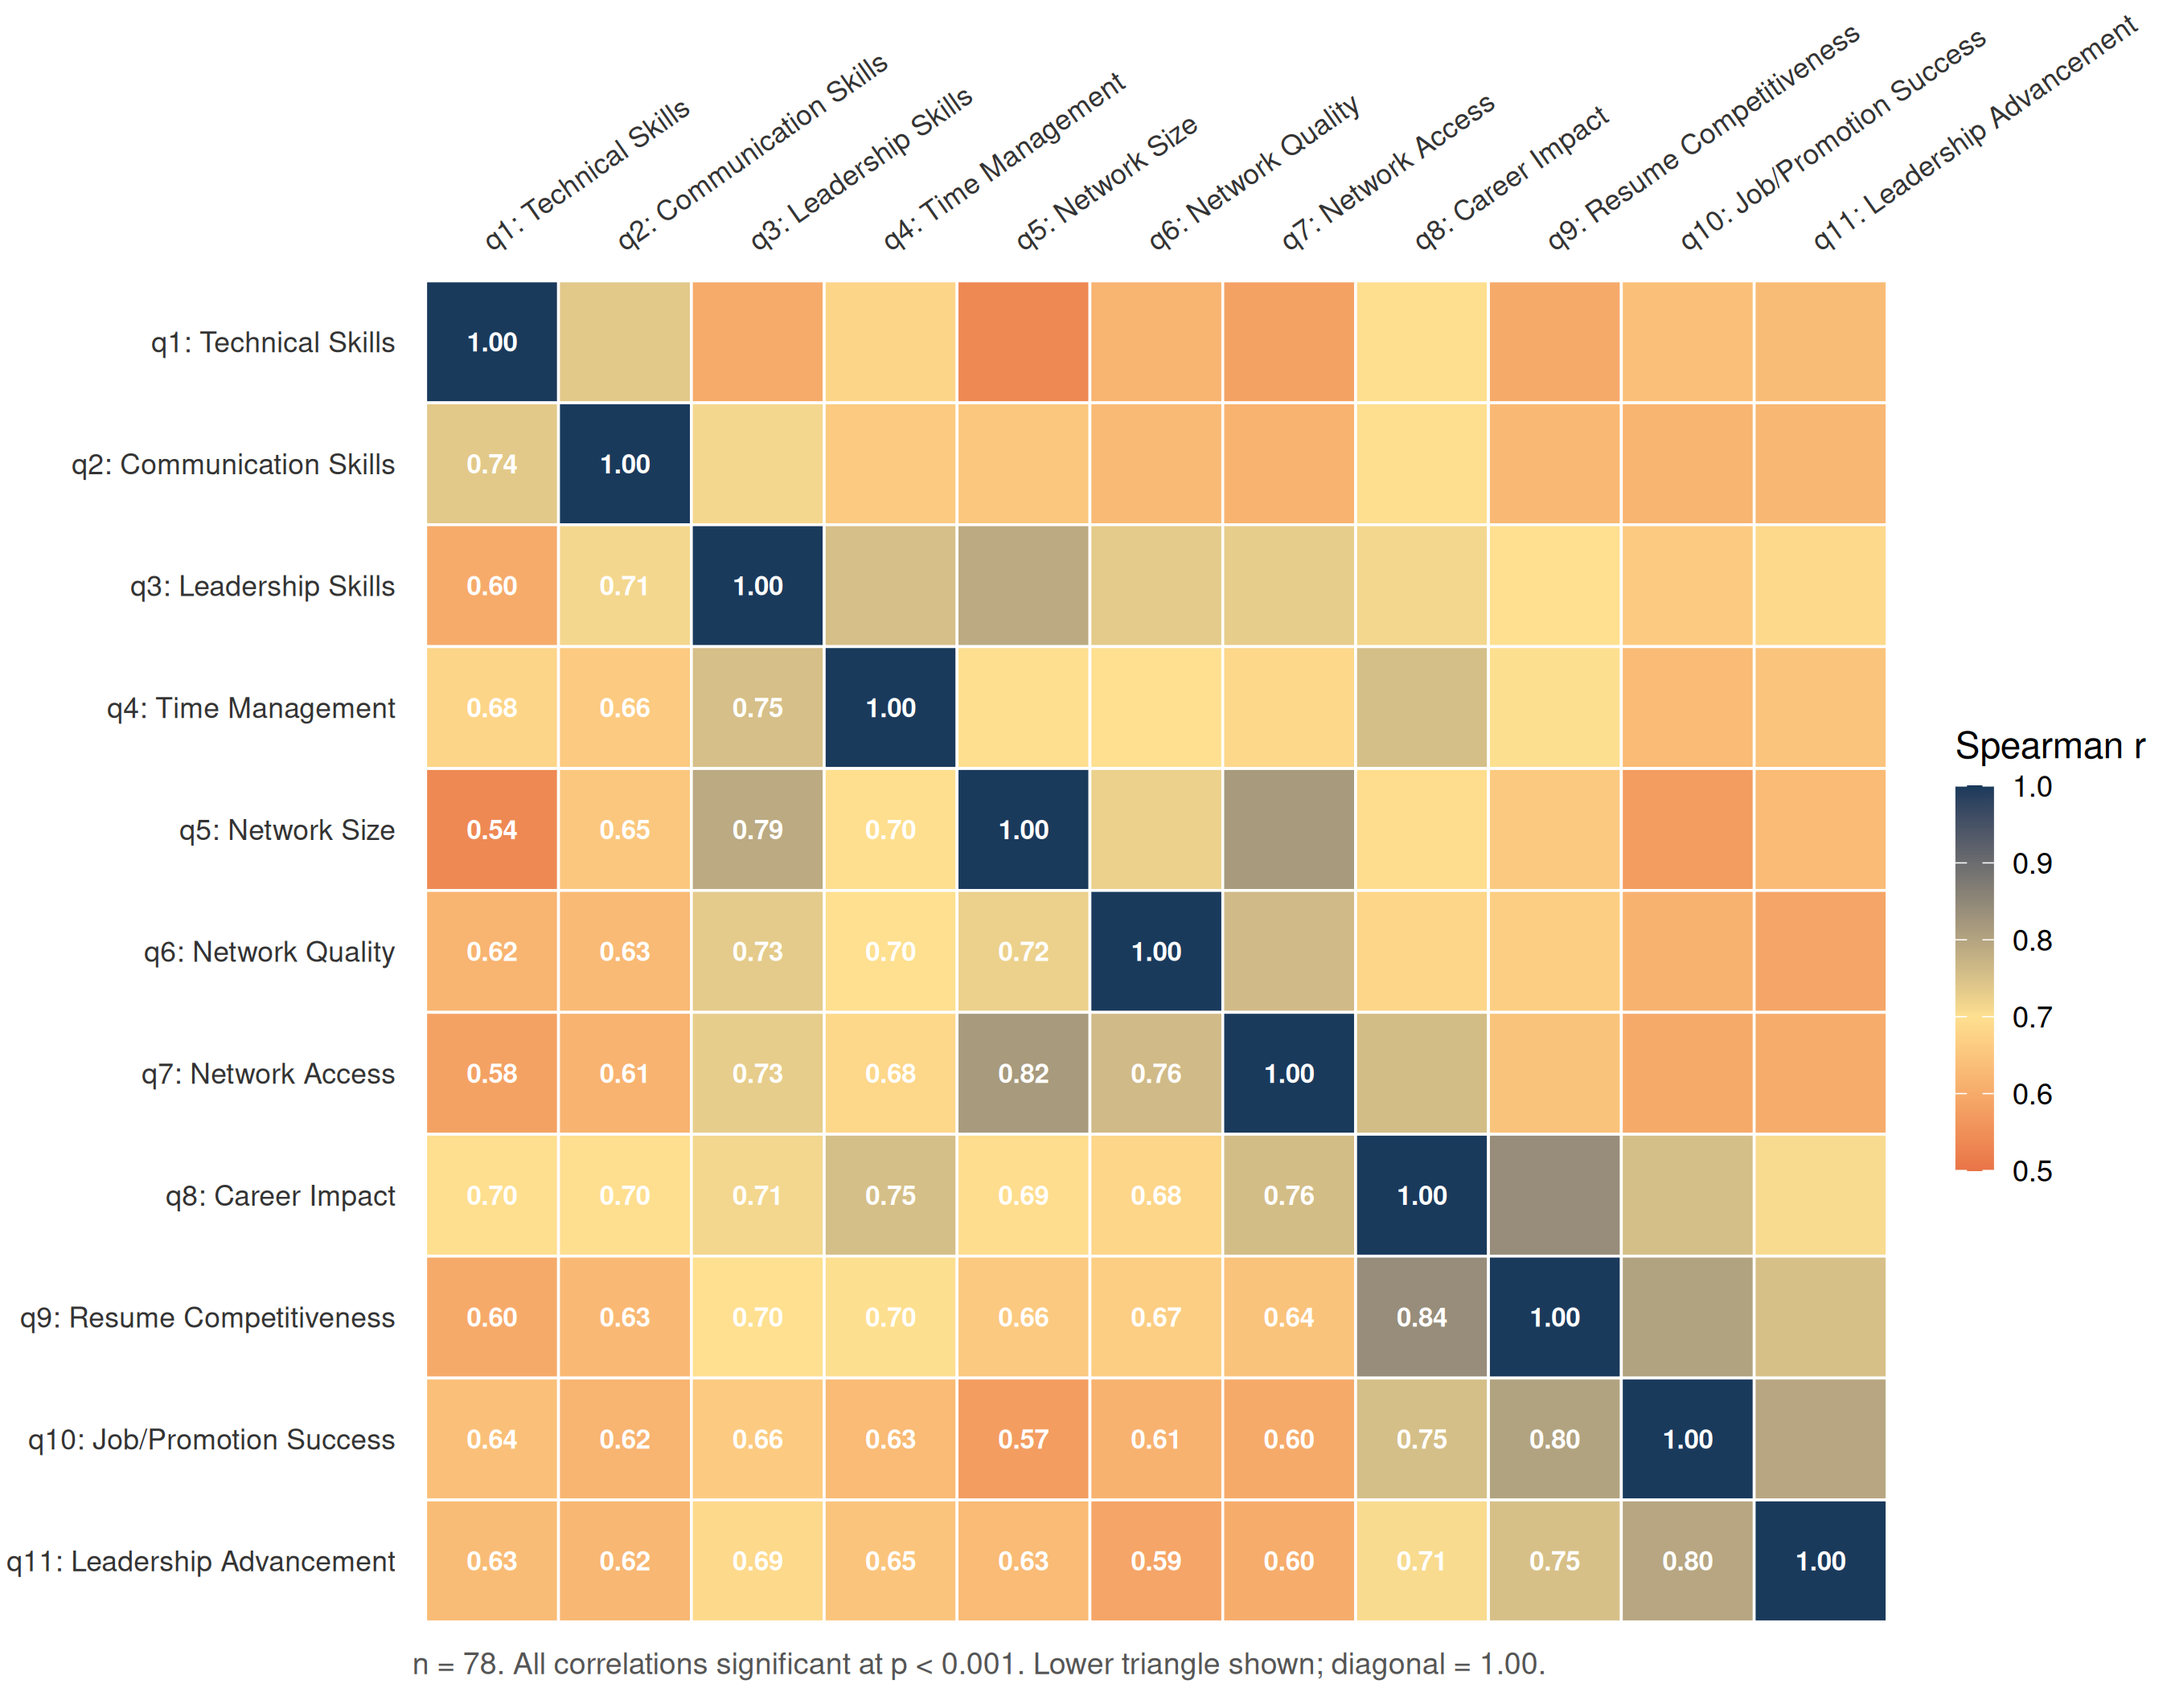
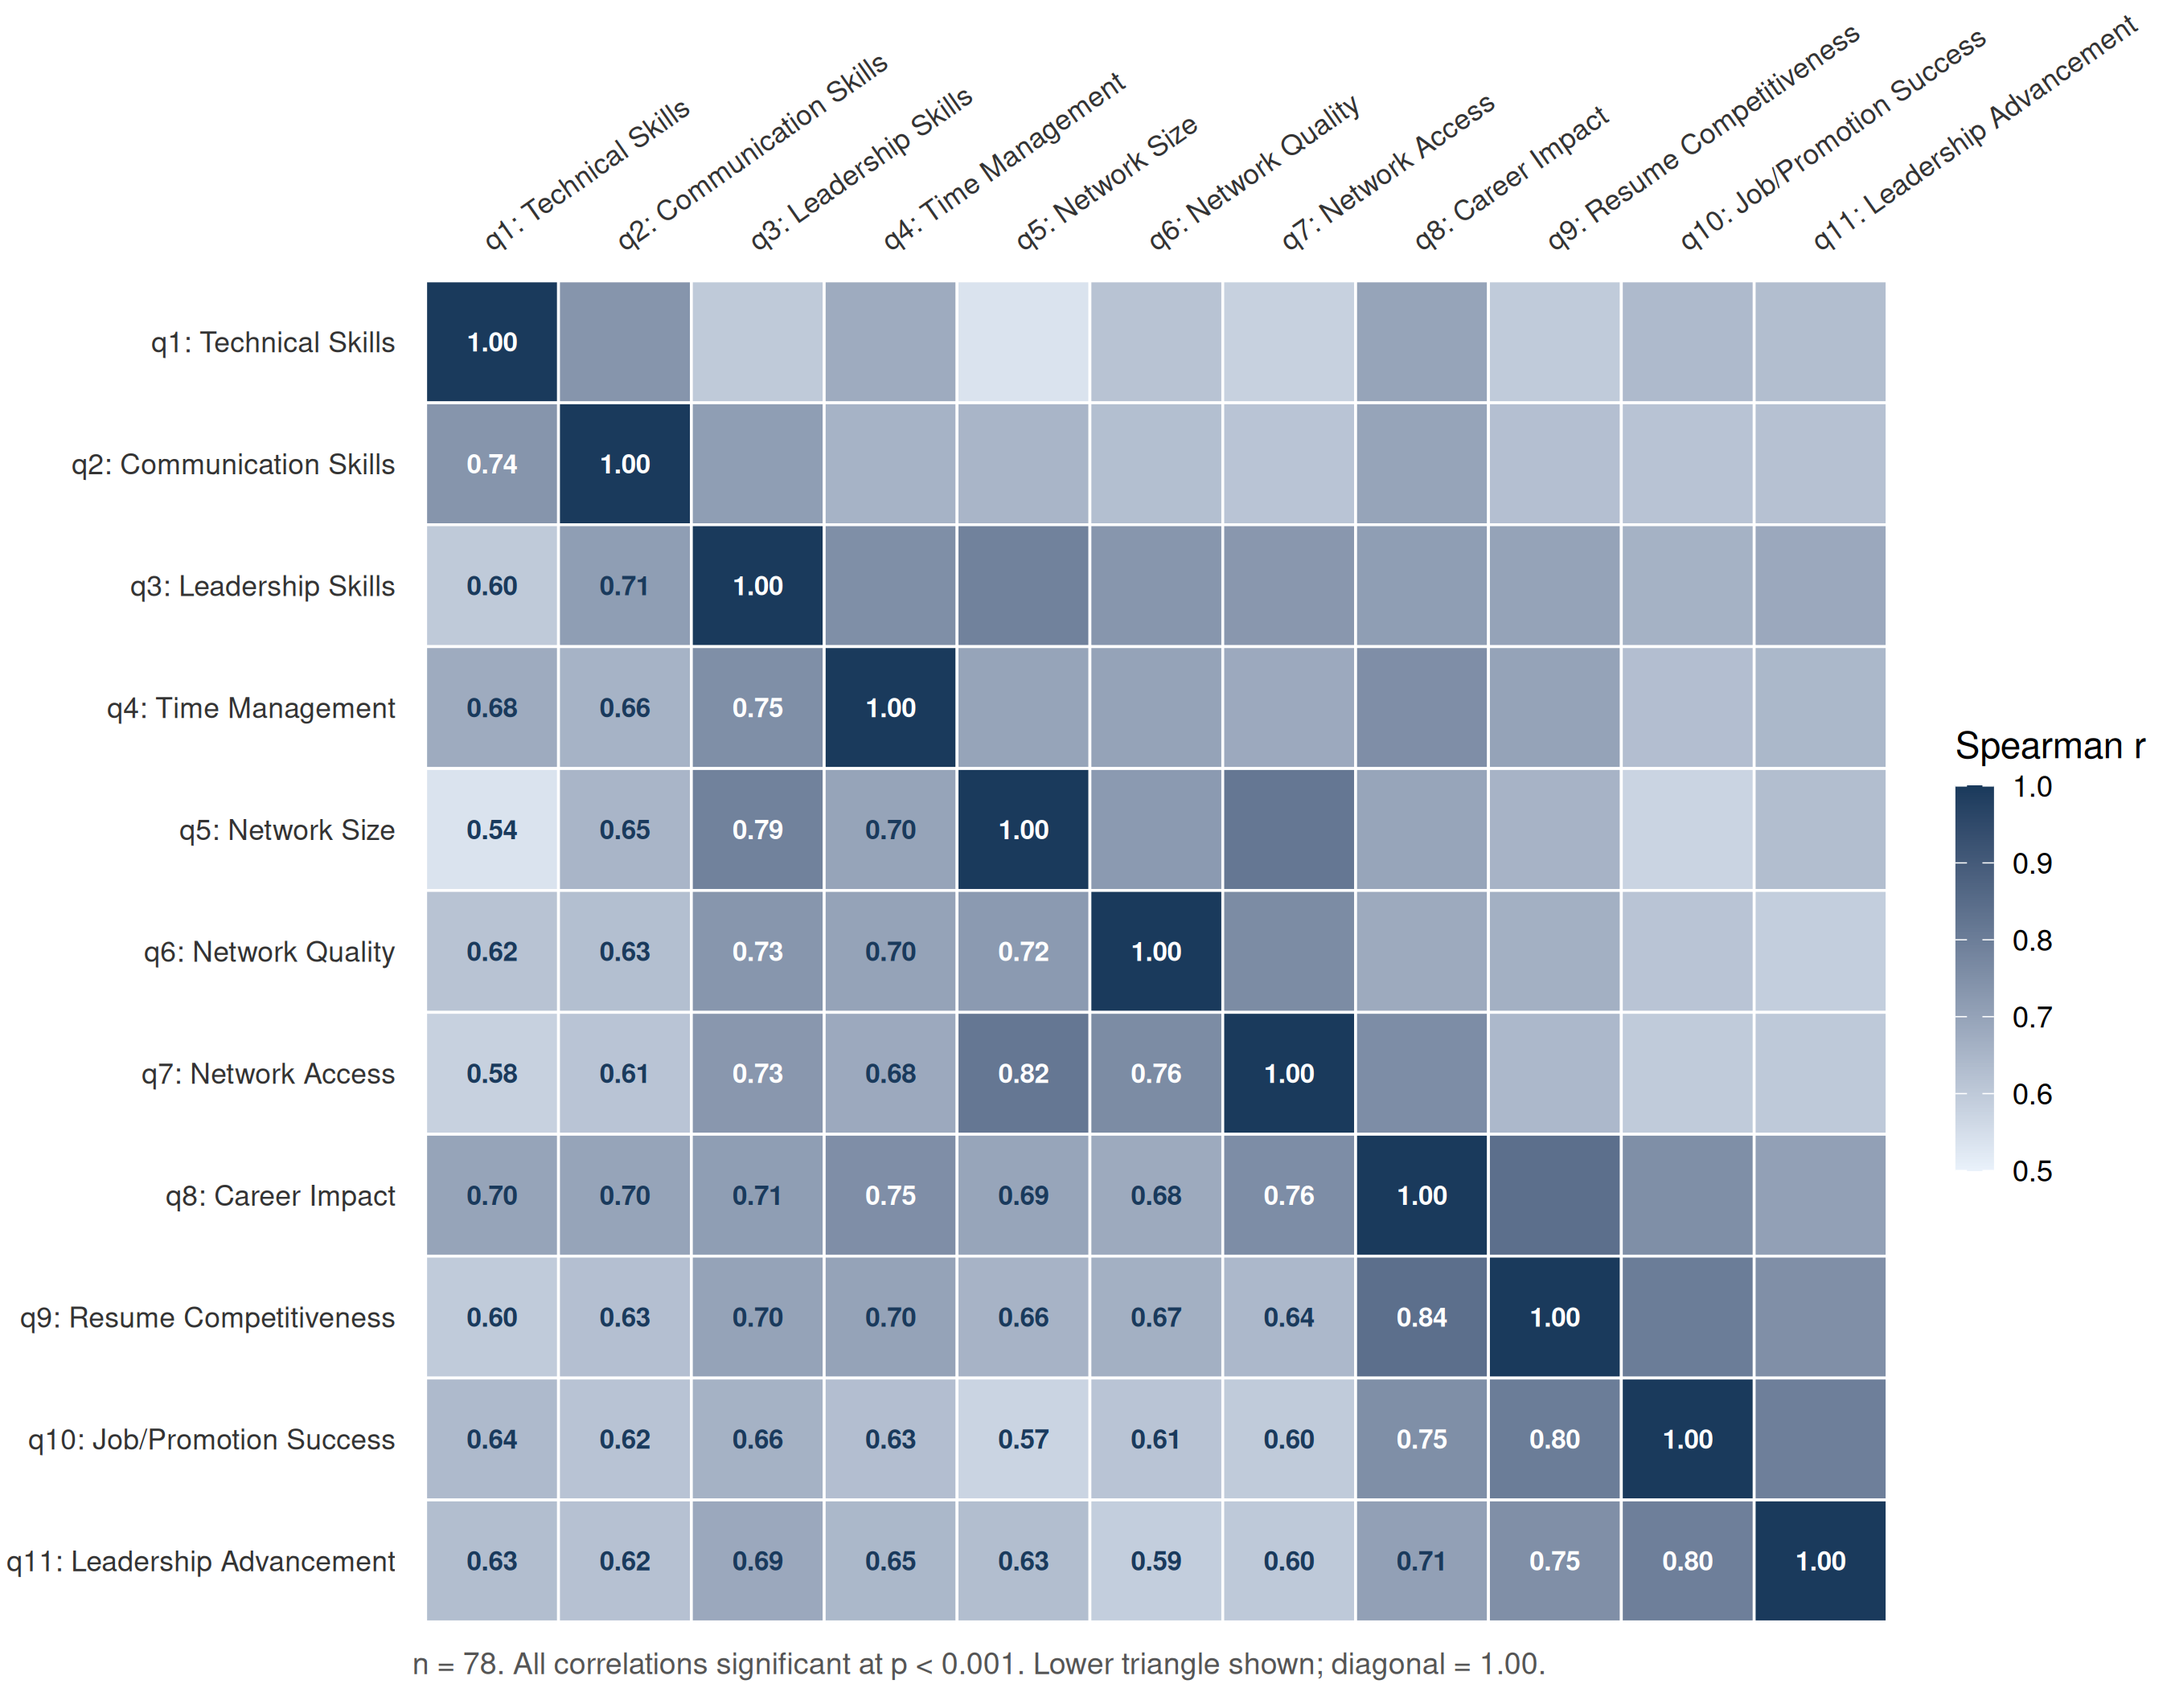
Restructure to match paper conventions and update figures
- Move input data to input/, rename stats_appendix/ → statistical_appendix/
- Update all script and doc path references accordingly
- Fig 1: switch to sequential blue gradient (print-friendly, conventional)
- Fig 2: standardize all three ovals to same size; fix 0.90 label overlap
- Fig 3: add whitespace above x-axis title

diff --git a/README.md b/README.md
@@ -137,7 +137,7 @@ Rscript --vanilla run_analysis.R
 ```
 
 This single script:
-- **Auto-detects data source:** Uses `vector_survey_responses.csv` if available (real data), otherwise uses example data for demonstration
+- **Auto-detects data source:** Uses `input/vector_survey_responses.csv` if available (real data), otherwise uses example data for demonstration
 - **Executes full 6-step pipeline:** Data audit → Descriptive stats → LMG analysis → Subgroup analysis → SEM → Paper claim verification
 - **Generates 29 output files:** CSV/HTML tables, PNG/SVG visualizations, and session metadata in the `output/` directory
 - **Takes ~2-5 minutes** depending on your machine (bootstrap iterations: 1,000)
@@ -160,16 +160,16 @@ subgroup_top_predictors_comparison.png ← Subgroup comparison
 If you have collected your own survey data using the standardized instrument:
 
 1. Ensure your CSV has the same structure: ≥18 columns with Likert items in columns 8–18
-2. Save it as `vector_survey_responses.csv` in the root directory
+2. Save it as `input/vector_survey_responses.csv`
 3. Run: `Rscript --vanilla run_analysis.R`
-4. Script automatically detects: "✓ Using real data: vector_survey_responses.csv"
+4. Script automatically detects: "✓ Using real data: input/vector_survey_responses.csv"
 
 #### **Troubleshooting**
 
 | Issue | Solution |
 |-------|----------|
 | "Missing package 'X'" | Run `install_dependencies.R` again or ensure internet connectivity |
-| "Data file not found" | Verify your CSV is named `vector_survey_responses.csv` in root directory (or use example) |
+| "Data file not found" | Verify your CSV is at `input/vector_survey_responses.csv` (or use example) |
 | Permission errors on Linux | Try: `chmod +x *.R && Rscript --vanilla install_dependencies.R` |
 | Very slow on large N | Edit `run_analysis.R` line ~220: change `R = 1000` to `R = 500` for bootstrap iterations |
 
@@ -202,13 +202,13 @@ paper-career-supplement/
 ├── VERIFICATION_REPORT.md                   (reproducibility audit)
 ├── install_dependencies.R                   (dependency installer)
 ├── run_analysis.R                           (consolidated master script)
-├── vector_survey_responses.csv              (input data — not in git for privacy)
-├── vector_survey_responses_example.csv      (example dataset for demonstration)
-├── AUDIT_DOCUMENTATION/                     (validation and discrepancy reports)
-│   ├── FINDINGS_SUMMARY.txt
-│   ├── QUICK_FIX_CHECKLIST.md
-│   ├── MUSKAAN_DISCREPANCIES_REPORT.md
-│   └── SOURCE_OF_TRUTH_VALUES.md
+├── input/
+│   └── vector_survey_responses.csv          (input data — not in git for privacy)
+├── statistical_appendix/
+│   ├── README.md
+│   ├── reproduce_analysis.R
+│   └── vector_survey_responses_example.csv  (example dataset for demonstration)
+├── paper/                                   (manuscript and cover letter)
 └── output/                                  (git-ignored, generated by run_analysis.R)
     ├── data_audit_summary.csv
     ├── participant_flow.csv

diff --git a/SUPPLEMENT.md b/SUPPLEMENT.md
@@ -14,7 +14,7 @@ This supplement describes the quantitative analytical framework, model specifica
 
 ### 1.1 Population & Sample
 
-- **Source file in repository:** `vector_survey_responses.csv`
+- **Source file in repository:** `input/vector_survey_responses.csv`
 - **Input rows (raw):** 80
 - **Complete cases:** 78 individuals (complete on all core Likert items *q1*–*q11*)
 - **Excluded:** 2 individuals (missing ≥1 core item; complete-case deletion)

diff --git a/VERIFICATION_REPORT.md b/VERIFICATION_REPORT.md
@@ -26,7 +26,7 @@ This report documents a fresh rerun of the full analysis pipeline and compares c
 
 | Metric | Value |
 |--------|-------|
-| Input file | `vector_survey_responses.csv` |
+| Input file | `input/vector_survey_responses.csv` |
 | Total rows | 80 |
 | Core-complete rows | 78 |
 | Excluded rows (core missing) | 2 |
